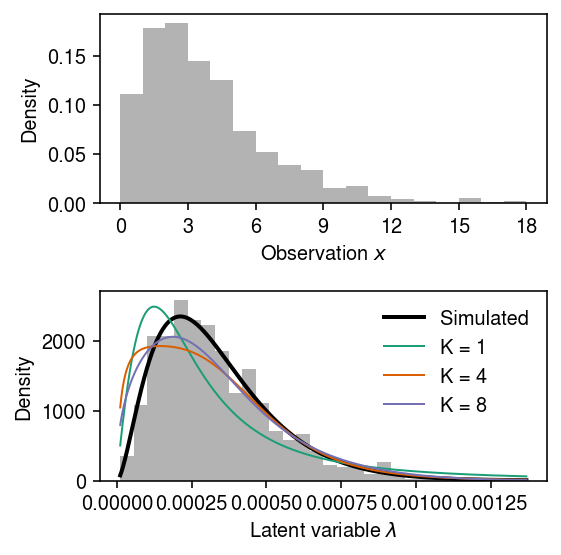
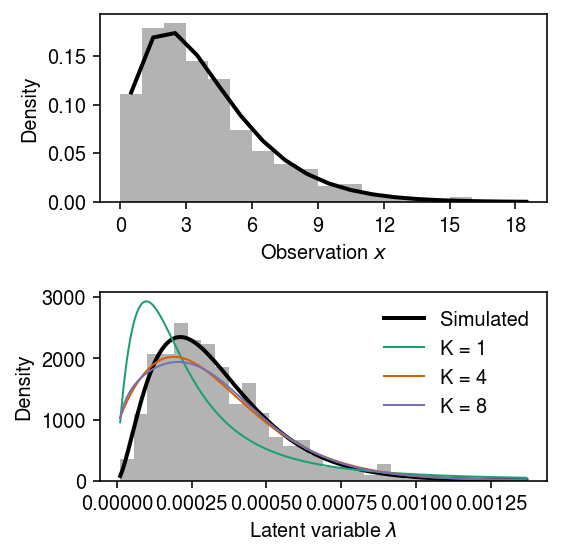
Try running EBPM-NF longer

diff --git a/docs/flows.html b/docs/flows.html
@@ -1,7 +1,7 @@
 <!DOCTYPE html>
 <html lang="en">
 <head>
-<!-- 2021-02-12 Fri 15:46 -->
+<!-- 2021-02-13 Sat 12:45 -->
 <meta charset="utf-8">
 <meta name="viewport" content="width=device-width, initial-scale=1">
 <title>Normalizing flows for EBPM</title>
@@ -351,6 +351,7 @@ family to fit expression models to scRNA-seq data.
 <div class="org-src-container">
 <pre class="src src-ipython"><span class="org-keyword">import</span> numpy <span class="org-keyword">as</span> np
 <span class="org-keyword">import</span> pandas <span class="org-keyword">as</span> pd
+<span class="org-keyword">import</span> scipy.special <span class="org-keyword">as</span> sp
 <span class="org-keyword">import</span> scipy.stats <span class="org-keyword">as</span> st
 <span class="org-keyword">import</span> torch
 <span class="org-keyword">import</span> torch.utils.tensorboard <span class="org-keyword">as</span> tb
@@ -1325,7 +1326,7 @@ Fit the model for different choices of \(K\).
 <div class="org-src-container">
 <pre class="src src-ipython"><span class="org-variable-name">run</span> = 2
 <span class="org-variable-name">lr</span> = 1e-2
-<span class="org-variable-name">n_epochs</span> = 4000
+<span class="org-variable-name">n_epochs</span> = 16000
 torch.manual_seed(run)
 <span class="org-variable-name">models</span> = {K: EBPM(K=K)
           .fit(torch.tensor(x.reshape(-1, 1), dtype=torch.<span class="org-builtin">float</span>),
@@ -1342,12 +1343,14 @@ Plot the simulated data.
 </p>
 
 <div class="org-src-container">
-<pre class="src src-ipython"><span class="org-variable-name">cm</span> = plt.get_cmap(<span class="org-string">'Dark2'</span>)
+<pre class="src src-ipython"><span class="org-variable-name">n_samples</span> = 1000
+<span class="org-variable-name">cm</span> = plt.get_cmap(<span class="org-string">'Dark2'</span>)
 plt.clf()
 <span class="org-variable-name">fig</span>, <span class="org-variable-name">ax</span> = plt.subplots(2, 1)
 fig.set_size_inches(4, 4)
 <span class="org-variable-name">grid</span> = np.arange(x.<span class="org-builtin">max</span>() + 1)
 ax[0].hist(x, bins=grid, density=<span class="org-string">'True'</span>, color=<span class="org-string">'0.7'</span>)
+ax[0].plot(grid + 0.5, st.nbinom(n=np.exp(log_inv_disp), p=1 / (1 + s[0] * np.exp(log_mean - log_inv_disp))).pmf(grid), lw=2, c=<span class="org-string">'k'</span>)
 ax[0].set_xticks(grid[::3])
 ax[0].set_xlabel(<span class="org-string">'Observation $x$'</span>)
 ax[0].set_ylabel(<span class="org-string">'Density'</span>)
@@ -1418,7 +1421,7 @@ observations.
 
 <div class="org-src-container">
 <pre class="src src-ipython">plt.clf()
-<span class="org-variable-name">fig</span>, <span class="org-variable-name">ax</span> = plt.subplots(1, 4)
+<span class="org-variable-name">fig</span>, <span class="org-variable-name">ax</span> = plt.subplots(1, 4, sharey=<span class="org-constant">True</span>)
 fig.set_size_inches(7.5, 2.5)
 
 <span class="org-keyword">for</span> i, a <span class="org-keyword">in</span> <span class="org-builtin">enumerate</span>(ax):
@@ -1429,8 +1432,9 @@ fig.set_size_inches(7.5, 2.5)
   ax[i].plot(grid, q0.pdf(np.exp(grid)) * np.exp(grid), lw=1, c=<span class="org-string">'k'</span>, ls=<span class="org-string">'--'</span>, label=<span class="org-string">'$q_0$'</span>)
   <span class="org-keyword">with</span> torch.no_grad():
     <span class="org-variable-name">samples</span> = models[8].qz.forward(torch.tensor(q0.rvs(size=(500, 1)), dtype=torch.<span class="org-builtin">float</span>))[0].numpy()
-  ax[i].hist(np.log(samples), bins=7, density=<span class="org-constant">True</span>, color=<span class="org-string">'0.8'</span>)
+  ax[i].hist(np.log(samples), bins=9, density=<span class="org-constant">True</span>, color=<span class="org-string">'0.8'</span>)
   ax[i].set_xlabel(<span class="org-string">'$\ln(\lambda)$'</span>)
+  ax[i].set_title(f<span class="org-string">'$x$ = {x[i]}'</span>)
 ax[0].set_ylabel(<span class="org-string">'Density'</span>)
 ax[0].legend(frameon=<span class="org-constant">False</span>, loc=<span class="org-string">'upper left'</span>)
 fig.tight_layout()
@@ -1448,7 +1452,7 @@ fig.tight_layout()
 </div>
 <div id="postamble" class="status">
 <p class="author">Author: Abhishek Sarkar</p>
-<p class="date">Created: 2021-02-12 Fri 15:46</p>
+<p class="date">Created: 2021-02-13 Sat 12:45</p>
 <p class="validation"><a href="http://validator.w3.org/check?uri=referer">Validate</a></p>
 </div>
 </body>
